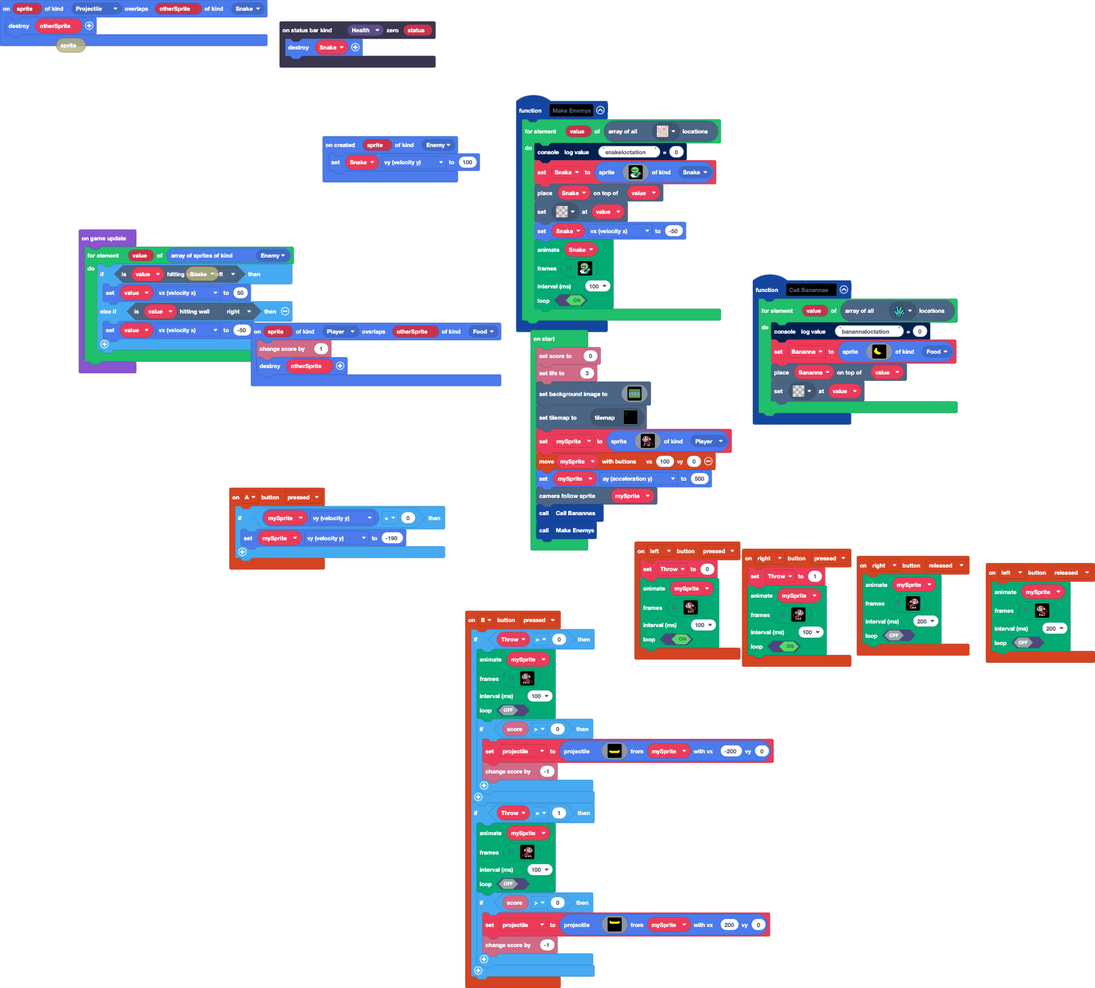
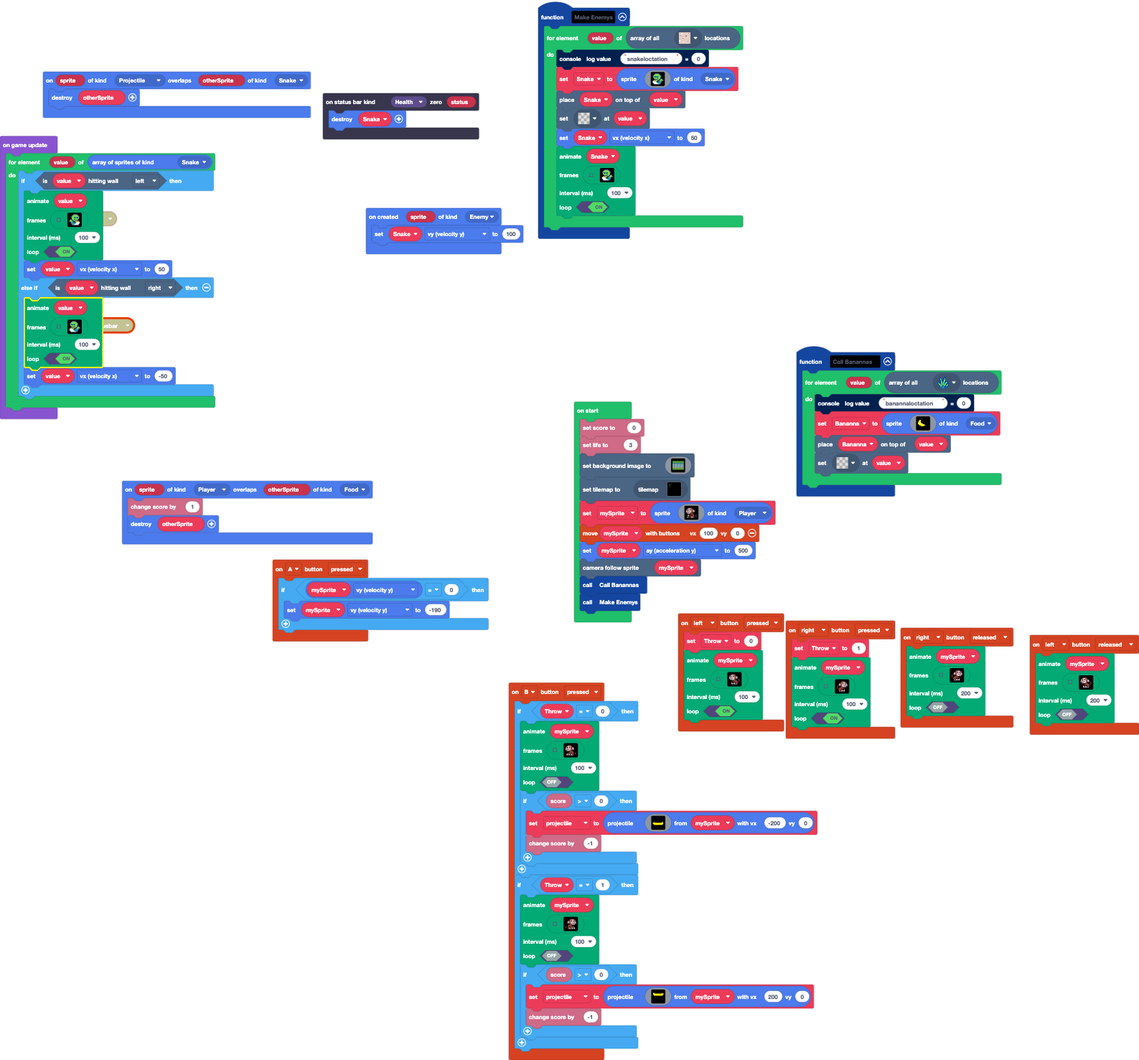
Update main.blocks, main.ts, tilemap.g.jres, tilemap.g.ts

diff --git a/tilemap.g.ts b/tilemap.g.ts
@@ -25,7 +25,7 @@ namespace myTiles {
 . . . . . . . . . . . . . . . . 
 `, [myTiles.transparency16], TileScale.Sixteen);
             case "level2":
-            case "level2":return tiles.createTilemap(hex`6400640000000000000000000000000000000000000000000000000000000000000000000000000000000000000000000000000000000000000000000000000000000000000000000000000000000000000000000000000000000000000000000000000000000000000000000000000000000000000000000000000000000000000000000000000000000000000000000000000000000000000000000000000000000000000000000000000000000000000000000000000000000000000000000000000000000000000000000000000000000000000000000000000000000000000000000000000000000000000000000000000000000000000000000000000000000000000000000000000000000000000000000000000000000000000000000000000000000000000000000000000000000000000000000000000000000000000000000000000000000000000000000000000000000000000000000000000000000000000000000000000000000000000000000000000000000000000000000000000000000000000000000000000000000000000000000000000000000000000000000000000000000000000000000000000000000000000000000000000000000000000000000000000000000000000000000000000000000000000000000000000000000000000000000000000000000000000000000000000000000000000000000000000000000000000000000000000000000000000200000000000000000000000000000000000000000000000000000000000000000000000000000000000000000000000000000000000000000000000000000000000000000000000000000000000000000000000000000000000000000000000000000305000000000000000000000000000000000000000000000000000000000000000000000000000000000000000000000000000000000000000000000000000000000000000000000000000000000000000000000000000000000000000000000002030500000000000000000000000000000000000000000000000000000000000000000000000000000000000000000000000000000000000000000000000000000000000000000000000304040405000000000000000000000000000000000000000003050000000000000000000000000000000000000000000000000000000000000000000000000000000000000000000000000000000000000000000000000000000000000000000000000000000000000000000000000000000000000000000000020305000000000000000000000000000000000000000000000000000000000000000000000000000000000000000000000000000000000000000000000000000000000000000000000000000000000000000000000000000000000000000000000000030500000000000000000000000000000000000000000000000000000000000000000000000000000000000000000000000000000000000000000000000000000000000000000000000000000000000000000000000000000000000000000000000203050000000000000000000000000000000000000000000000000000000000000000000000000000000000000000000000000000000000000000000000000000000000000000000000000000000000000000000000000000000000000002000000000305000000000000000000000000000000000000000000000000000000000000000000000000000000000000000000000000000000000000000000000000000000000000000000000000000000000000030104040404040404040404040404050000030500000000000000000000000000000000000000000000000000000000000000000000000000000000000000000000000000000000000000000000000000000000000000000000000000000000000000000102000000000000000000000000000000000400000000000000000000000000000000000000000000000000000000000000000000000000000000000000000000000000000000000000000000000000000000000000000000000000000000000000000004020000000000000000000000000000000204000000000000000000000000000000000000000000000000000000000000000000000000000000000000000000000000000000000000000000000000000000000000000000000000000000000000000000040000000006000600000000000000000003050000000000000000000000000000000000000000000000000000000000000000000000000000000000000000000000000000000000000000000000000000000000000000000000000000000000000000000400030404040404040404040404040405000000000000000000000000000000000000000000000000000000000000000000000000000000000000000000000000000000000000000000000000000000000000000000000000000000000000000000000004000000000000000000000000000000000000000000000000000000000000000000000000000000000000000000000000000000000000000000000000000000000000000000000000000000000000000000000000000000000000000000000000000000000000000000000000000000000000000000000000000000000000000000000000000000000000000000000000000000000000000000000000000000000000000000000000000000000000000000000000000000000000000000000000000000000000000000000000000000000000000000000000000000000000000000000000000000000000000000000000000000000000000000000000000000000000000000000000000000000000000000000000000000000000000000000000000000000000000000000000000200000000000000000000000200000000000000000000000000000000000000000000000000000000000000000000000000000000000000000000000000000000000000000000000000000000000000000000000000000000000000000000000000000305000000000002000000000004000000000000000000000000000000000000000000000000000000000000000000000000000000000000000000000000000000000000000000000000000000000000000000000000000000000000000000000000000000000000000000040000000004000000000000000000000000000000000000000000000000000000000000000000000000000000000000000000000000000000000000000000000000000000000000000000000000000000000000000000000000000000000000000000040000000000000000000004020000000000000000000000000000000000000000000000000000000000000000000000000000000000000000000000000000000000000000000000000000000000000000000000000000000000000000000000000000000000000000000000000000000400000000000000000000000000000000000000000000000000000000000000000000000000000000000000000000000000000000000000000000000000000000000000000000000000000000000000000000000000000000000000000000000000000000000000000000000000000000000000000000000000000000000000000000000000000000000000000000000000000000000000000000000000000000000000000000000000000000000000000000000000000000000000000000000000000000000000000000000000000000000000000000000000000000000000000000000000000000000000000000000000000000000000000000000000000000000000000000000000000000000000000000000000000000000000000006000000000006000000000000000000000000000000000000000000000000000000000000000000000000000000000000000000000000000000000000000000000000000000000000000000000000000000000000000000000000000000000304040404040404040404040404040404040405000000000000000000000000000000000000000000000000000000000000000000000000000000000000000000000000000000000000000000000000000000000000000000000000000000000000000000000000000000000000000000000000000000000000000000000000000000000000000000000000000000000000000000000000000000000000000000000000000000000000000000000000000000000000000000000000000000000000000000000000000000000000000000000000000000000000000000000000000000000000000000000000000000000000000000000000000000000000000000000000000000000000000000000000000000000000000000000000000000000000000000000000000000000000000000000000000000000000000000000000000000000000000000000000000000000000000000000000000000000000000000000000000000000000000000000000000000000000000000000000000000000000000000000000000000000000000000000000000000000000000000000000000000000000000000000000000000000000000000000000000000000000000000000000000000000000000000000000000000000000000000000000000000000000000000000000000000000000000000000000000000000000000000000000000000000000000000000000000000000000000000000000000000000000000000000000000000000000000000000000000000000000000000000000000000000000000000000000000000000000000000000000000000000000000000000000000000000000000000000000000000000000000000000000000000000000000000000000000000000000000000000000000000000000000000000000000000000000000000000000000000000000000000000000000000000000000000000000000000000000000000000000000000000000000000000000000000000000000000000000000000000000000000000000000000000000000000000000000000000000000000000000000000000000000000000000000000000000000000000000000000000000000000000000000000000000000000000000000000000000000000000000000000000000000000000000000000000000000000000000000000000000000000000000000000000000000000000000000000000000000000000000000000000000000000000000000000000000000000000000000000000000000000000000000000000000000000000000000000000000000000000000000000000000000000000000000000000000000000000000000000000000000000000000000000000000000000000000000000000000000000000000000000000000000000000000000000000000000000000000000000000000000000000000000000000000000000000000000000000000000000000000000000000000000000000000000000000000000000000000000000000000000000000000000000000000000000000000000000000000000000000000000000000000000000000000000000000000000000000000000000000000000000000000000000000000000000000000000000000000000000000000000000000000000000000000000000000000000000000000000000000000000000000000000000000000000000000000000000000000000000000000000000000000000000000000000000000000000000000000000000000000000000000000000000000000000000000000000000000000000000000000000000000000000000000000000000000000000000000000000000000000000000000000000000000000000000000000000000000000000000000000000000000000000000000000000000000000000000000000000000000000000000000000000000000000000000000000000000000000000000000000000000000000000000000000000000000000000000000000000000000000000000000000000000000000000000000000000000000000000000000000000000000000000000000000000000000000000000000000000000000000000000000000000000000000000000000000000000000000000000000000000000000000000000000000000000000000000000000000000000000000000000000000000000000000000000000000000000000000000000000000000000000000000000000000000000000000000000000000000000000000000000000000000000000000000000000000000000000000000000000000000000000000000000000000000000000000000000000000000000000000000000000000000000000000000000000000000000000000000000000000000000000000000000000000000000000000000000000000000000000000000000000000000000000000000000000000000000000000000000000000000000000000000000000000000000000000000000000000000000000000000000000000000000000000000000000000000000000000000000000000000000000000000000000000000000000000000000000000000000000000000000000000000000000000000000000000000000000000000000000000000000000000000000000000000000000000000000000000000000000000000000000000000000000000000000000000000000000000000000000000000000000000000000000000000000000000000000000000000000000000000000000000000000000000000000000000000000000000000000000000000000000000000000000000000000000000000000000000000000000000000000000000000000000000000000000000000000000000000000000000000000000000000000000000000000000000000000000000000000000000000000000000000000000000000000000000000000000000000000000000000000000000000000000000000000000000000000000000000000000000000000000000000000000000000000000000000000000000000000000000000000000000000000000000000000000000000000000000000000000000000000000000000000000000000000000000000000000000000000000000000000000000000000000000000000000000000000000000000000000000000000000000000000000000000000000000000000000000000000000000000000000000000000000000000000000000000000000000000000000000000000000000000000000000000000000000000000000000000000000000000000000000000000000000000000000000000000000000000000000000000000000000000000000000000000000000000000000000000000000000000000000000000000000000000000000000000000000000000000000000000000000000000000000000000000000000000000000000000000000000000000000000000000000000000000000000000000000000000000000000000000000000000000000000000000000000000000000000000000000000000000000000000000000000000000000000000000000000000000000000000000000000000000000000000000000000000000000000000000000000000000000000000000000000000000000000000000000000000000000000000000000000000000000000000000000000000000000000000000000000000000000000000000000000000000000000000000000000000000000000000000000000000000000000000000000000000000000000000000000000000000000000000000000000000000000000000000000000000000000000000000000000000000000000000000000000000000000000000000000000000000000000000000000000000000000000000000000000000000000000000000000000000000000000000000000000000000000000000000000000000000000000000000000000000000000000000000000000000000000000000000000000000000000000000000000000000000000000000000000000000000000000000000000000000000000000000000000000000000000000000000000000000000000000000000000000000000000000000000000000000000000000000000000000000000000000000000000000000000000000000000000000000000000000000000000000000000000000000000000000000000000000000000000000000000000000000000000000000000000000000000000000000000000000000000000000000000000000000000000000000000000000000000000000000000000000000000000000000000000000000000000000000000000000000000000000000000000000000000000000000000000000000000000000000000000000000000000000000000000000000000000000000000000000000000000000000000000000000000000000000000000000000000000000000000000000000000000000000000000000000000000000000000000000000000000000000000000000000000000000000000000000000000000000000000000000000000000000000000000000000000000000000000000000000000000000000000000000000000000000000000000000000000000000000000000000000000000000000000000000000000000000000000000000000000000000000000000000000000000000000000000000000000000000000000000000000000000000000000000000000000000000000000000000000000000000000000000000000000000000000000000000000000000000000000000000000000000000000000000000000000000000000000000000000000000000000000000000000000000000000000000000000000000000000000000000000000000000000000000000000000000000000000000000000000000000000000000000000000000000000000000000000000000000000000000000000000000000000000000000000000000000000000000000000000000000000000000000000000000000000000000000000000000000000000000000000000000000000000000000000000000000000000000000000000000000000000000000000000000000000000000000000000000000000000000000000000000000000000000000000000000000000000000000000000000000000000000000000000000000000000000000000000000000000000000000000000000000000000000000000000000000000000000000000000000000000000000000000000000000000000000000000000000000000000000000000000000000000000000000000000000000000000000000000000000000000000000000000000000000000000000000000000000000000000000000000000000000000000000000000000000000000000000000000000000000000000000000000000000000000000000000000000000000000000000000000000000000000000000000000000000000000000000000000000000000000000000000000000000000000000000000000000000000000000000000000000000000000000000000000000000000000000000000000000000000000000000000000000000000000000000000000000000000000000000000000000000000000000000000000000000000000000000000000000000000000000000000000000000000000000000000000000000000000000000000000000000000000000000000000000000000000000000000000000000000000000000000000000000000000000000000000000000000000000000000000000000000000000000000000000000000000000000000000000000000000000000000000000000000000000000000000000000000000000000000000000000000000000000000000000000000000000000000000000000000000000000000000000000000000000000000000000000000000000000000000000000000000000000000000000000000000000000000000000000000000000000000000000000000000000000000000000000000000000000000000000000000000000000000000000000000000000000000000000000000000000000000000000000000000000000000000000000000000000000000000000000000000000000000000000000000000000000000000000000000000000000000000000000000000000000000000000000000000000000000000000000000000000000000000000000000000000000000000000000000000000000000000000000000000000000000000000000000000000000000000000000000000000000000000000000000000000000000000000000000000000000000000000000000000000000000000000000000000000000000000000000000000000000000000000000000000000000000000000000000000000000000000000000000000000000000000000000000000000000000000000000000000000000000000000000000000000000000000000000000000000000000000000000000000000000000000000000000000000000000000000000000000000000000000000000000000000000000000000000000000000000000000000000000000000000000000000000000000000000000000000000000000000000000000000000000000000000000000000000000000000000000000000000000000000000000000000000000000000000000000000000000000000000000000000000000000000000000000000000000000000000000000000000000000000000000000000000000000000000000000000000000000000000000000000000000000000000000000000000000000000000000000000000000000000000000000000000000000000000000000000000000000000000000000000000000000000000000000000000000000000000000000000000000000000000000000000000000000000000000000000000000000000000000000000000000000000000000000000000000000000000000000000000000000000000000000000000000000000000000000000000000000000000000000000000000000000000000000000000000000000000000000000000000000000000000000000000000000000000000000000000000000000000000000000000000000000000000000000000000000000000000000000000000000000000000000000000000000000000000000000000000000000000000000000000000000000000000000000000000000000000000000000000000000000000000000000000000000000000000000000000000000000000000000000000000000000000000000000000000000000000000000000000000000000000000000000000000000000000000000000000000000000000000000000000000000000000000000000000000000000000000000000000000000000000000000000000000000000000000000000000000000000000000000000000000000000000000000000000000000000000000000000000000000000000000000000000000000000000000000000000000000000000000000000000000000000000000000000000000000000000000000000000000000000000000000000000000000000000000000000000000000000000000000000000000000000000000000000000000000000000000000000000000000000000000000000000000000000000000000000000000000000000000000000000000000000000000000000000000000000000000000000000000000000000000000000000000000000000000000000000000000000000000000000000000000000000000000000000000000000000000000000000000000000000000000000000000000000000000000000000000000000000000000000000000000000000000000000000000000000000000000000000000000000000000000000000000000000000000000000000000000000000000000000000000000000000000000000000000000000000000000000000000000000000000000000000000000000000000000000000000000000000000000000000000000000000000000000000000000000000000000000000000000000000000000000000000000000000000000000000000000000000000000000000000000000000000000000000000000000000000000000000000000000000000000000000000000000000000000000000000000000000000000000000000000000000000000000000000000000000000000000000000000000000000000000000000000000000000000000000000000000000000000000000000000000000000000000000000000000000000000000000000000000000000000000000000000000000000000000000000000000000000000000000000000000000000000000000000000000000000000000000000000000000000000000000000000000000000000000000000000000000000000000000000000000000000000000000000000000000000000000000000000000000000000000000000000000000000000000000000000000000000000000000000000000000000000000000000000000000000000000000000000000000000000000000000000000000000000000000000000000000000000000000000000000000000000000000000000000000000000000000000000000000000000000000000000000000000000000000000000000000000000000000000000000000000000000000000000000000000000000000000000000000000000000000000000000000000000000000000000000000000000000000000000000000000000000000000000000000000000000000000000000000000000000000000000000000000000000000000000000000000000000000000000000000000000000000000000000000000000000000000000000000000000000000000000000000000000000000000000000000000000000000000000000000000000000000000000000000000000000000000000000000000000000000000000000000000000000000000000000000000000000000000000000000000000000000000000000000000000000000000000000000000000000000000000000000000000000000000000000000000000000000000000000000000000000000000000000000000000000000000000000000000000000000000000000000000000000000000000000000000000000000000000000000000000000000000000000000000000000000000000000000000000000000000000000000000000000000000000000000000000000000000000000000000000000000000000000000000000000000000000000000000000000000000000000000000000000000000000000000000000000000000000000000000000000000000000000000000000000000000000000000000000000000000000000000000000000000000000000000000000000000000000000000000000000000000000000000000000000000000000000000000000000000000000000000000000000000000000000000000000000000000000000000000000000000000000000000000000000000000000000000000000000000000000000000000000000000000000000000000000000000000000000000000000000000000000000000000000000000000000000000000000000000000000000000000000000000000000000000000000000000000000000000000000000000000000000000000000000000000000000000000000000000000000000000000000000000000`, img`
+            case "level2":return tiles.createTilemap(hex`6400640000000000000000000000000000000000000000000000000000000000000000000000000000000000000000000000000000000000000000000000000000000000000000000000000000000000000000000000000000000000000000000000000000000000000000000000000000000000000000000000000000000000000000000000000000000000000000000000000000000000000000000000000000000000000000000000000000000000000000000000000000000000000000000000000000000000000000000000000000000000000000000000000000000000000000000000000000000000000000000000000000000000000000000000000000000000000000000000000000000000000000000000000000000000000000000000000000000000000000000000000000000000000000000000000000000000000000000000000000000000000000000000000000000000000000000000000000000000000000000000000000000000000000000000000000000000000000000000000000000000000000000000000000000000000000000000000000000000000000000000000000000000000000000000000000000000000000000000000000000000000000000000000000000000000000000000000000000000000000000000000000000000000000000000000000000000000000000000000000000000000000000000000000000000000000000000000000000000000200000000000000000000000000000000000000000000000000000000000000000000000000000000000000000000000000000000000000000000000000000000000000000000000000000000000000000000000000000000000000000000000000000305000000000000000000000000000000000000000000000000000000000000000000000000000000000000000000000000000000000000000000000000000000000000000000000000000000000000000000000000000000000000000000000002030500000000000000000000000000000000000000000000000000000000000000000000000000000000000000000000000000000000000000000000000000000000000000000000000304040405000000000000000000000000000000000000000003050000000000000000000000000000000000000000000000000000000000000000000000000000000000000000000000000000000000000000000000000000000000000000000000000000000000000000000000000000000000000000000000020305000000000000000000000000000000000000000000000000000000000000000000000000000000000000000000000000000000000000000000000000000000000000000000000000000000000000000000000000000000000000000000000000030500000000000000000000000000000000000000000000000000000000000000000000000000000000000000000000000000000000000000000000000000000000000000000000000000000000000000000000000000000000000000000000000203050000000000000000000000000000000000000000000000000000000000000000000000000000000000000000000000000000000000000000000000000000000000000000000000000000000000000000000000000000000000000002000000000305000000000000000000000000000000000000000000000000000000000000000000000000000000000000000000000000000000000000000000000000000000000000000000000000000000000000030104040404040404040404040404050000030500000000000000000000000000000000000000000000000000000000000000000000000000000000000000000000000000000000000000000000000000000000000000000000000000000000000000000102000000000000000000000000000000000400000000000000000000000000000000000000000000000000000000000000000000000000000000000000000000000000000000000000000000000000000000000000000000000000000000000000000004020000000000000000000000000000000204000000000000000000000000000000000000000000000000000000000000000000000000000000000000000000000000000000000000000000000000000000000000000000000000000000000000000000040000000000000000000000000000000003050000000000000000000000000000000000000000000000000000000000000000000000000000000000000000000000000000000000000000000000000000000000000000000000000000000000000000000400030404040404040404040404040405000000000000000000000000000000000000000000000000000000000000000000000000000000000000000000000000000000000000000000000000000000000000000000000000000000000000000000000004000000000000000000000000000000000000000000000000000000000000000000000000000000000000000000000000000000000000000000000000000000000000000000000000000000000000000000000000000000000000000000000000000000000000000000000000000000000000000000000000000000000000000000000000000000000000000000000000000000000000000000000000000000000000000000000000000000000000000000000000000000000000000000000000000000000000000000000000000000000000000000000000000000000000000000000000000000000000000000000000000000000000000000000000000000000000000000000000000000000000000000000000000000000000000000000000000000000000000000000000000200000000000000000000000200000000000000000000000000000000000000000000000000000000000000000000000000000000000000000000000000000000000000000000000000000000000000000000000000000000000000000000000000000305000000000002000000000004000000000000000000000000000000000000000000000000000000000000000000000000000000000000000000000000000000000000000000000000000000000000000000000000000000000000000000000000000000000000000000040000000004000000000000000000000000000000000000000000000000000000000000000000000000000000000000000000000000000000000000000000000000000000000000000000000000000000000000000000000000000000000000000000040000000000000000000004020000000000000000000000000000000000000000000000000000000000000000000000000000000000000000000000000000000000000000000000000000000000000000000000000000000000000000000000000000000000000000000000000000000400000000000000000000000000000000000000000000000000000000000000000000000000000000000000000000000000000000000000000000000000000000000000000000000000000000000000000000000000000000000000000000000000000000000000000000000000000000000000000000000000000000000000000000000000000000000000000000000000000000000000000000000000000000000000000000000000000000000000000000000000000000000000000000000000000000000000000000000000000000000000000000000000000000000000000000000000000000000000000000000000000000000000000000000000000000000000000000000000000000000000000000000000000000000001000006000000000006000000010000000000000000000000000000000000000000000000000000000000000000000000000000000000000000000000000000000000000000000000000000000000000000000000000000000000000000000000000304040404040404040404040404040404040405000000000000000000000000000000000000000000000000000000000000000000000000000000000000000000000000000000000000000000000000000000000000000000000000000000000000000000000000000000000000000000000000000000000000000000000000000000000000000000000000000000000000000000000000000000000000000000000000000000000000000000000000000000000000000000000000000000000000000000000000000000000000000000000000000000000000000000000000000000000000000000000000000000000000000000000000000000000000000000000000000000000000000000000000000000000000000000000000000000000000000000000000000000000000000000000000000000000000000000000000000000000000000000000000000000000000000000000000000000000000000000000000000000000000000000000000000000000000000000000000000000000000000000000000000000000000000000000000000000000000000000000000000000000000000000000000000000000000000000000000000000000000000000000000000000000000000000000000000000000000000000000000000000000000000000000000000000000000000000000000000000000000000000000000000000000000000000000000000000000000000000000000000000000000000000000000000000000000000000000000000000000000000000000000000000000000000000000000000000000000000000000000000000000000000000000000000000000000000000000000000000000000000000000000000000000000000000000000000000000000000000000000000000000000000000000000000000000000000000000000000000000000000000000000000000000000000000000000000000000000000000000000000000000000000000000000000000000000000000000000000000000000000000000000000000000000000000000000000000000000000000000000000000000000000000000000000000000000000000000000000000000000000000000000000000000000000000000000000000000000000000000000000000000000000000000000000000000000000000000000000000000000000000000000000000000000000000000000000000000000000000000000000000000000000000000000000000000000000000000000000000000000000000000000000000000000000000000000000000000000000000000000000000000000000000000000000000000000000000000000000000000000000000000000000000000000000000000000000000000000000000000000000000000000000000000000000000000000000000000000000000000000000000000000000000000000000000000000000000000000000000000000000000000000000000000000000000000000000000000000000000000000000000000000000000000000000000000000000000000000000000000000000000000000000000000000000000000000000000000000000000000000000000000000000000000000000000000000000000000000000000000000000000000000000000000000000000000000000000000000000000000000000000000000000000000000000000000000000000000000000000000000000000000000000000000000000000000000000000000000000000000000000000000000000000000000000000000000000000000000000000000000000000000000000000000000000000000000000000000000000000000000000000000000000000000000000000000000000000000000000000000000000000000000000000000000000000000000000000000000000000000000000000000000000000000000000000000000000000000000000000000000000000000000000000000000000000000000000000000000000000000000000000000000000000000000000000000000000000000000000000000000000000000000000000000000000000000000000000000000000000000000000000000000000000000000000000000000000000000000000000000000000000000000000000000000000000000000000000000000000000000000000000000000000000000000000000000000000000000000000000000000000000000000000000000000000000000000000000000000000000000000000000000000000000000000000000000000000000000000000000000000000000000000000000000000000000000000000000000000000000000000000000000000000000000000000000000000000000000000000000000000000000000000000000000000000000000000000000000000000000000000000000000000000000000000000000000000000000000000000000000000000000000000000000000000000000000000000000000000000000000000000000000000000000000000000000000000000000000000000000000000000000000000000000000000000000000000000000000000000000000000000000000000000000000000000000000000000000000000000000000000000000000000000000000000000000000000000000000000000000000000000000000000000000000000000000000000000000000000000000000000000000000000000000000000000000000000000000000000000000000000000000000000000000000000000000000000000000000000000000000000000000000000000000000000000000000000000000000000000000000000000000000000000000000000000000000000000000000000000000000000000000000000000000000000000000000000000000000000000000000000000000000000000000000000000000000000000000000000000000000000000000000000000000000000000000000000000000000000000000000000000000000000000000000000000000000000000000000000000000000000000000000000000000000000000000000000000000000000000000000000000000000000000000000000000000000000000000000000000000000000000000000000000000000000000000000000000000000000000000000000000000000000000000000000000000000000000000000000000000000000000000000000000000000000000000000000000000000000000000000000000000000000000000000000000000000000000000000000000000000000000000000000000000000000000000000000000000000000000000000000000000000000000000000000000000000000000000000000000000000000000000000000000000000000000000000000000000000000000000000000000000000000000000000000000000000000000000000000000000000000000000000000000000000000000000000000000000000000000000000000000000000000000000000000000000000000000000000000000000000000000000000000000000000000000000000000000000000000000000000000000000000000000000000000000000000000000000000000000000000000000000000000000000000000000000000000000000000000000000000000000000000000000000000000000000000000000000000000000000000000000000000000000000000000000000000000000000000000000000000000000000000000000000000000000000000000000000000000000000000000000000000000000000000000000000000000000000000000000000000000000000000000000000000000000000000000000000000000000000000000000000000000000000000000000000000000000000000000000000000000000000000000000000000000000000000000000000000000000000000000000000000000000000000000000000000000000000000000000000000000000000000000000000000000000000000000000000000000000000000000000000000000000000000000000000000000000000000000000000000000000000000000000000000000000000000000000000000000000000000000000000000000000000000000000000000000000000000000000000000000000000000000000000000000000000000000000000000000000000000000000000000000000000000000000000000000000000000000000000000000000000000000000000000000000000000000000000000000000000000000000000000000000000000000000000000000000000000000000000000000000000000000000000000000000000000000000000000000000000000000000000000000000000000000000000000000000000000000000000000000000000000000000000000000000000000000000000000000000000000000000000000000000000000000000000000000000000000000000000000000000000000000000000000000000000000000000000000000000000000000000000000000000000000000000000000000000000000000000000000000000000000000000000000000000000000000000000000000000000000000000000000000000000000000000000000000000000000000000000000000000000000000000000000000000000000000000000000000000000000000000000000000000000000000000000000000000000000000000000000000000000000000000000000000000000000000000000000000000000000000000000000000000000000000000000000000000000000000000000000000000000000000000000000000000000000000000000000000000000000000000000000000000000000000000000000000000000000000000000000000000000000000000000000000000000000000000000000000000000000000000000000000000000000000000000000000000000000000000000000000000000000000000000000000000000000000000000000000000000000000000000000000000000000000000000000000000000000000000000000000000000000000000000000000000000000000000000000000000000000000000000000000000000000000000000000000000000000000000000000000000000000000000000000000000000000000000000000000000000000000000000000000000000000000000000000000000000000000000000000000000000000000000000000000000000000000000000000000000000000000000000000000000000000000000000000000000000000000000000000000000000000000000000000000000000000000000000000000000000000000000000000000000000000000000000000000000000000000000000000000000000000000000000000000000000000000000000000000000000000000000000000000000000000000000000000000000000000000000000000000000000000000000000000000000000000000000000000000000000000000000000000000000000000000000000000000000000000000000000000000000000000000000000000000000000000000000000000000000000000000000000000000000000000000000000000000000000000000000000000000000000000000000000000000000000000000000000000000000000000000000000000000000000000000000000000000000000000000000000000000000000000000000000000000000000000000000000000000000000000000000000000000000000000000000000000000000000000000000000000000000000000000000000000000000000000000000000000000000000000000000000000000000000000000000000000000000000000000000000000000000000000000000000000000000000000000000000000000000000000000000000000000000000000000000000000000000000000000000000000000000000000000000000000000000000000000000000000000000000000000000000000000000000000000000000000000000000000000000000000000000000000000000000000000000000000000000000000000000000000000000000000000000000000000000000000000000000000000000000000000000000000000000000000000000000000000000000000000000000000000000000000000000000000000000000000000000000000000000000000000000000000000000000000000000000000000000000000000000000000000000000000000000000000000000000000000000000000000000000000000000000000000000000000000000000000000000000000000000000000000000000000000000000000000000000000000000000000000000000000000000000000000000000000000000000000000000000000000000000000000000000000000000000000000000000000000000000000000000000000000000000000000000000000000000000000000000000000000000000000000000000000000000000000000000000000000000000000000000000000000000000000000000000000000000000000000000000000000000000000000000000000000000000000000000000000000000000000000000000000000000000000000000000000000000000000000000000000000000000000000000000000000000000000000000000000000000000000000000000000000000000000000000000000000000000000000000000000000000000000000000000000000000000000000000000000000000000000000000000000000000000000000000000000000000000000000000000000000000000000000000000000000000000000000000000000000000000000000000000000000000000000000000000000000000000000000000000000000000000000000000000000000000000000000000000000000000000000000000000000000000000000000000000000000000000000000000000000000000000000000000000000000000000000000000000000000000000000000000000000000000000000000000000000000000000000000000000000000000000000000000000000000000000000000000000000000000000000000000000000000000000000000000000000000000000000000000000000000000000000000000000000000000000000000000000000000000000000000000000000000000000000000000000000000000000000000000000000000000000000000000000000000000000000000000000000000000000000000000000000000000000000000000000000000000000000000000000000000000000000000000000000000000000000000000000000000000000000000000000000000000000000000000000000000000000000000000000000000000000000000000000000000000000000000000000000000000000000000000000000000000000000000000000000000000000000000000000000000000000000000000000000000000000000000000000000000000000000000000000000000000000000000000000000000000000000000000000000000000000000000000000000000000000000000000000000000000000000000000000000000000000000000000000000000000000000000000000000000000000000000000000000000000000000000000000000000000000000000000000000000000000000000000000000000000000000000000000000000000000000000000000000000000000000000000000000000000000000000000000000000000000000000000000000000000000000000000000000000000000000000000000000000000000000000000000000000000000000000000000000000000000000000000000000000000000000000000000000000000000000000000000000000000000000000000000000000000000000000000000000000000000000000000000000000000000000000000000000000000000000000000000000000000000000000000000000000000000000000000000000000000000000000000000000000000000000000000000000000000000000000000000000000000000000000000000000000000000000000000000000000000000000000000000000000000000000000000000000000000000000000000000000000000000000000000000000000000000000000000000000000000000000000000000000000000000000000000000000000000000000000000000000000000000000000000000000000000000000000000000000000000000000000000000000000000000000000000000000000000000000000000000000000000000000000000000000000000000000000000000000000000000000000000000000000000000000000000000000000000000000000000000000000000000000000000000000000000000000000000000000000000000000000000000000000000000000000000000000000000000000000000000000000000000000000000000000000000000000000000000000000000000000000000000000000000000000000000000000000000000000000000000000000000000000000000000000000000000000000000000000000000000000000000000000000000000000000000000000000000000000000000000000000000000000000000000000000000000000000000000000000000000000000000000000000000000000000000000000000000000000000000000000000000000000000000000000000000000000000000000000000000000000000000000000000000000000000000000000000000000000000000000000000000000000000000000000000000000000000000000000000000000000000000000000000000000000000000000000000000000000000000000000000000000000000000000000000000000000000000000000000000000000000000000000000000000000000000000000000000000000000000000000000000000000000000000000000000000000000000000000000000000000000000000000000000000000000000000000000000000000000000000000000000000000000000000000000000000000000000000000000000000000000000000000000000000000000000000000000000000000000000000000000000000000000000000000000000000000000000000000000000000000000000000000000000000000000000000000000000000000000000000000000000000000000000000000000000000000000000000000000000000000000000000000000000000000000000000000000000000000000000000000000000000000000000000000000000000000000000000000000000000000000000000000000000000000000000000000000000000000000000000000000000000000000000000000000000000000000000000000000000000000000000000000000000000000000000000000000000000000000000000000000000000000000000000000000000000000000000000000000000000000000000000000000000000000000000000000000000000000000000000000000000000000000000000000000000000000000000000000000000000000000000000000000000000000000000000000000000000000000000000000000000000000000000000000000000000000000000000000000000000000000000000000000000000000000000000000000000000000000000000000000000000000000000000000000000000000000`, img`
 ....................................................................................................
 ....................................................................................................
 ....................................................................................................
@@ -42,7 +42,7 @@ namespace myTiles {
 2222222222222222..22................................................................................
 2.................2.................................................................................
 2.................2.................................................................................
-2..2.......2.....22.................................................................................
+2................22.................................................................................
 2.222222222222222...................................................................................
 2...................................................................................................
 ....................................................................................................
@@ -54,7 +54,7 @@ namespace myTiles {
 ...................2................................................................................
 ....................................................................................................
 ....................................................................................................
-....................................................................................................
+..2............2....................................................................................
 22222222222222222222................................................................................
 ....................................................................................................
 ....................................................................................................

diff --git a/main.ts b/main.ts
@@ -562,7 +562,7 @@ function Make_Enemys () {
             `, SpriteKind.Snake)
         tiles.placeOnTile(Snake, value)
         tiles.setTileAt(value, assets.tile`transparency16`)
-        Snake.vx = -50
+        Snake.vx = 50
         animation.runImageAnimation(
         Snake,
         [img`
@@ -766,10 +766,90 @@ scene.cameraFollowSprite(mySprite)
 Call_Banannas()
 Make_Enemys()
 game.onUpdate(function () {
-    for (let value of sprites.allOfKind(SpriteKind.Enemy)) {
+    for (let value of sprites.allOfKind(SpriteKind.Snake)) {
         if (value.isHittingTile(CollisionDirection.Left)) {
+            animation.runImageAnimation(
+            value,
+            [img`
+                . . . . . . c c c c c c . . . . 
+                . . . . . c 6 7 7 7 7 6 c . . . 
+                . . . . c 7 7 7 7 7 7 7 7 c . . 
+                . . . c 6 7 7 7 7 7 7 7 7 6 c . 
+                . . . c 7 7 7 c 6 6 6 6 c 7 c . 
+                . . . f 7 7 7 6 f 6 6 f 6 7 f . 
+                . . . f 7 7 7 7 7 7 7 7 7 7 f . 
+                . . c f 6 7 7 c 6 7 7 7 7 f . . 
+                . c 7 7 f 6 7 7 c c c c f . . . 
+                c 7 7 7 7 f c 6 7 7 7 2 7 c . . 
+                c c 6 7 7 6 c f c 7 7 2 7 7 c . 
+                . . c 6 6 6 c c f 6 7 1 1 1 1 c 
+                . . f 6 6 6 6 c 6 6 1 1 1 1 1 f 
+                . . f c 6 6 6 6 6 1 1 1 1 1 6 f 
+                . . . f 6 6 6 1 1 1 1 1 1 6 f . 
+                . . . . f c c c c c c c c c . . 
+                `,img`
+                . . . . . . . c c c c c c . . . 
+                . . . . . . c 6 7 7 7 7 6 c . . 
+                . . . . . c 7 7 7 7 7 7 7 7 c . 
+                . . . . c 6 7 7 7 7 7 7 7 7 6 c 
+                . . . . c 7 7 7 c 6 6 6 6 c 7 c 
+                . . . . f 7 7 7 6 f 6 6 f 6 7 f 
+                . . . . f 7 7 7 7 7 7 7 7 7 7 f 
+                . . . . f 6 7 7 c 6 7 7 7 7 f . 
+                . . c c c f 6 7 7 c c c c f . . 
+                . c 7 7 7 c c f 7 7 7 2 6 c . . 
+                c 7 7 7 7 6 f c 7 7 2 7 7 6 c . 
+                c c c 6 6 6 c 6 6 7 1 1 1 1 c . 
+                . . c 6 6 6 6 6 6 1 1 1 1 1 c . 
+                . . c 6 6 6 6 6 1 1 1 1 1 6 c . 
+                . . c c 6 6 7 1 1 1 1 1 6 c . . 
+                . . . c c c c c c c c c c . . . 
+                `],
+            100,
+            true
+            )
             value.vx = 50
         } else if (value.isHittingTile(CollisionDirection.Right)) {
+            animation.runImageAnimation(
+            value,
+            [img`
+                . . . . c c c c c c . . . . . . 
+                . . . c 6 7 7 7 7 6 c . . . . . 
+                . . c 7 7 7 7 7 7 7 7 c . . . . 
+                . c 6 7 7 7 7 7 7 7 7 6 c . . . 
+                . c 7 c 6 6 6 6 c 7 7 7 c . . . 
+                . f 7 6 f 6 6 f 6 7 7 7 f . . . 
+                . f 7 7 7 7 7 7 7 7 7 7 f . . . 
+                . . f 7 7 7 7 6 c 7 7 6 f c . . 
+                . . . f c c c c 7 7 6 f 7 7 c . 
+                . . c 7 2 7 7 7 6 c f 7 7 7 7 c 
+                . c 7 7 2 7 7 c f c 6 7 7 6 c c 
+                c 1 1 1 1 7 6 f c c 6 6 6 c . . 
+                f 1 1 1 1 1 6 6 c 6 6 6 6 f . . 
+                f 6 1 1 1 1 1 6 6 6 6 6 c f . . 
+                . f 6 1 1 1 1 1 1 6 6 6 f . . . 
+                . . c c c c c c c c c f . . . . 
+                `,img`
+                . . . c c c c c c . . . . . . . 
+                . . c 6 7 7 7 7 6 c . . . . . . 
+                . c 7 7 7 7 7 7 7 7 c . . . . . 
+                c 6 7 7 7 7 7 7 7 7 6 c . . . . 
+                c 7 c 6 6 6 6 c 7 7 7 c . . . . 
+                f 7 6 f 6 6 f 6 7 7 7 f . . . . 
+                f 7 7 7 7 7 7 7 7 7 7 f . . . . 
+                . f 7 7 7 7 6 c 7 7 6 f . . . . 
+                . . f c c c c 7 7 6 f c c c . . 
+                . . c 6 2 7 7 7 f c c 7 7 7 c . 
+                . c 6 7 7 2 7 7 c f 6 7 7 7 7 c 
+                . c 1 1 1 1 7 6 6 c 6 6 6 c c c 
+                . c 1 1 1 1 1 6 6 6 6 6 6 c . . 
+                . c 6 1 1 1 1 1 6 6 6 6 6 c . . 
+                . . c 6 1 1 1 1 1 7 6 6 c c . . 
+                . . . c c c c c c c c c c . . . 
+                `],
+            100,
+            true
+            )
             value.vx = -50
         }
     }
